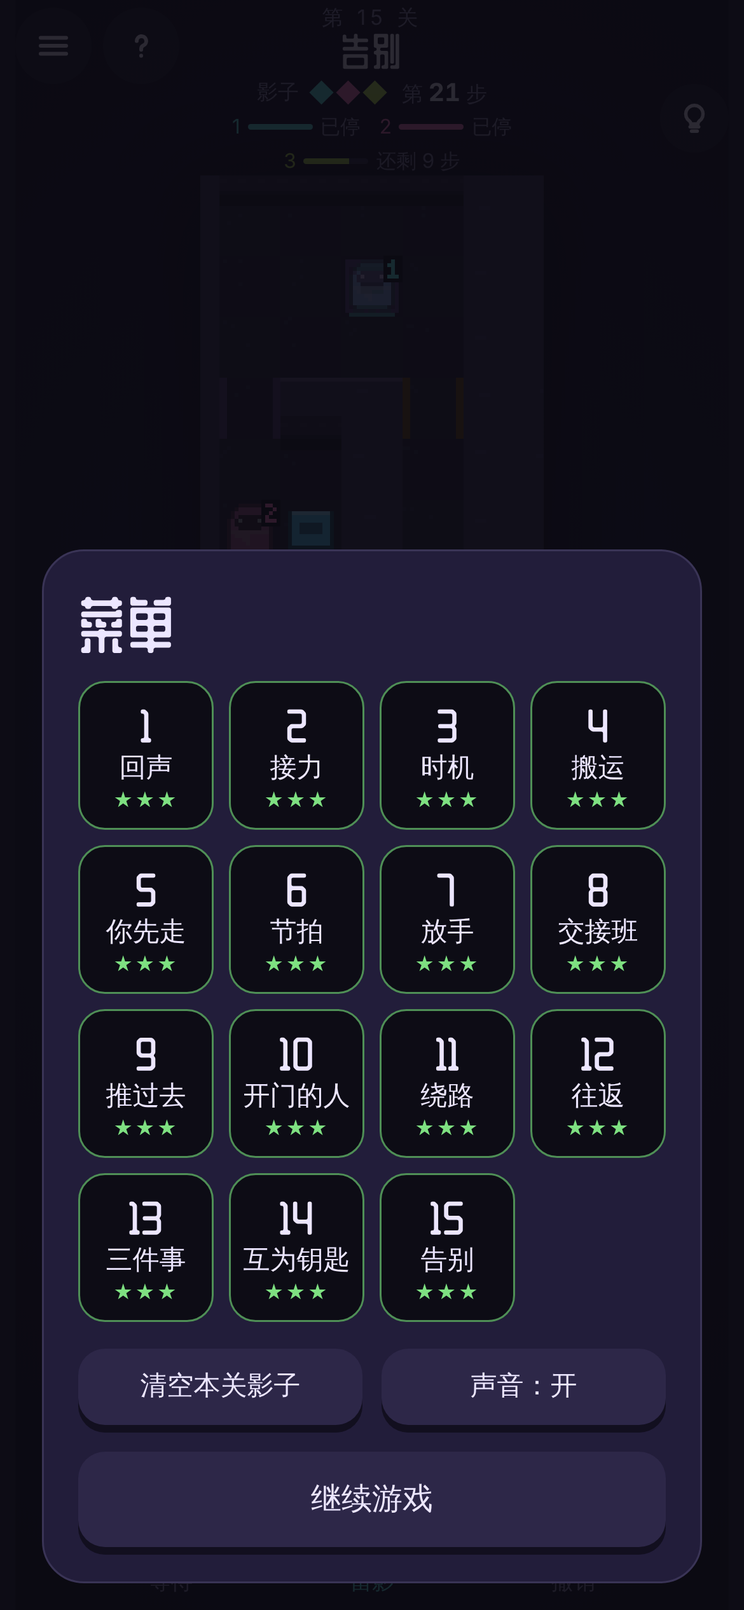
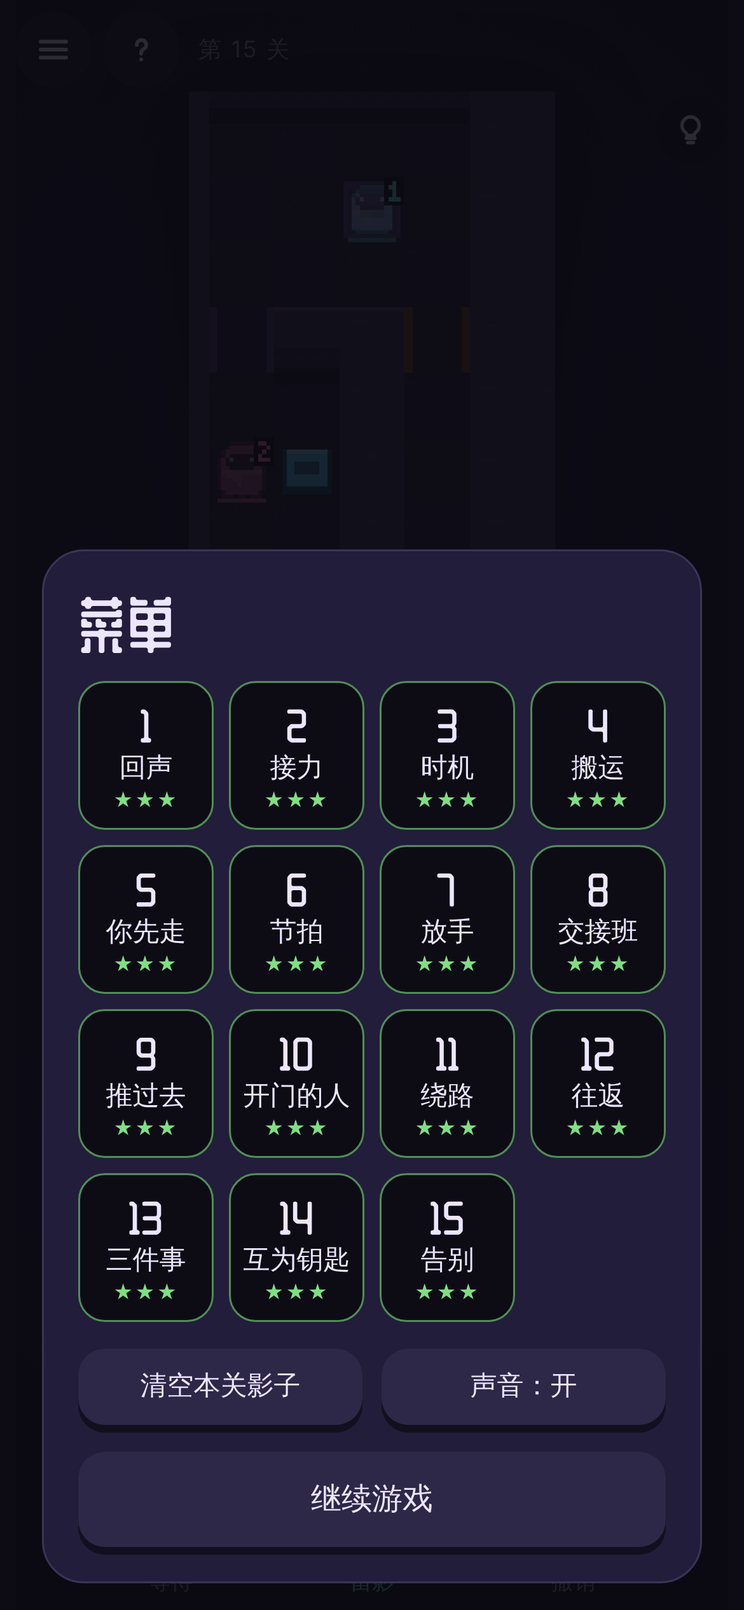
去掉顶部信息栏：关卡名进关淡入淡出，影子名额改为留影按钮角标，提示灯泡浮在棋盘右上角
Claude-Session: https://claude.ai/code/session_016AuyL4w4c3u8YAF1PVzn5C

diff --git a/index.html b/index.html
@@ -34,40 +34,37 @@ button{font:inherit;color:inherit;-webkit-tap-highlight-color:transparent;touch-
   body{background:var(--bg)}
   #app{height:min(100% - 32px,900px);border:1px solid var(--line);border-radius:28px;padding:12px 14px 14px;box-shadow:0 30px 80px rgba(0,0,0,.6)}
 }
-/* top strip: back on the left, level title centred, right side kept clear */
-#top{display:grid;grid-template-columns:88px 1fr 88px;align-items:start;min-height:44px}
-#topL{display:flex;gap:6px}
-/* right column: the first ~40px are left empty for the WeChat capsule; the hint button sits just under it */
-#topR{display:flex;justify-content:flex-end;padding-top:40px}
+/* top strip: round buttons plus a tiny level chip on the left; the right side stays empty for the WeChat capsule */
+#top{display:flex;align-items:center;height:44px;flex:none}
+#topL{display:flex;gap:6px;align-items:center}
 .ico.sm{width:36px;height:36px}
 .ico.sm svg{width:18px;height:18px}
 .ico{width:40px;height:40px;border-radius:50%;background:rgba(255,255,255,.06);border:none;cursor:pointer;display:grid;place-items:center}
 .ico svg{width:20px;height:20px}
-#lvbox{text-align:center;min-width:0}
-#lvname{font-family:var(--display);font-size:20px;line-height:1.05;letter-spacing:.05em;white-space:nowrap;overflow:hidden;text-overflow:ellipsis}
-#lvname small{display:block;font-family:var(--body);font-size:11px;letter-spacing:.2em;color:var(--dim)}
-#status{display:flex;justify-content:center;align-items:center;gap:10px;margin-top:3px;min-height:18px;flex-wrap:wrap}
-#pips{display:flex;gap:5px;align-items:center}
-.pip{width:9px;height:9px;border:2px solid #5a5380;transform:rotate(45deg);box-sizing:border-box}
-.pip.on{border-color:transparent}
-#pipLabel{font-size:11px;color:var(--dim);margin-right:2px}
-#steps{font-size:11px;color:var(--dim);font-variant-numeric:tabular-nums}
-#steps b{color:var(--ink);font-size:13px}
-#timeline{display:flex;gap:4px 10px;flex-wrap:wrap;justify-content:center;min-height:12px;margin-top:2px}
-.tl{display:flex;align-items:center;gap:4px;font-size:10.5px;color:var(--dim)}
-.tl i{display:block;width:34px;height:3px;background:var(--line);border-radius:2px;position:relative;overflow:hidden}
-.tl i em{position:absolute;inset:0 auto 0 0;background:currentColor}
+#lvchip{font-size:12px;color:var(--dim);letter-spacing:.08em;padding-left:4px;white-space:nowrap}
+/* hint bulb floats on the board's top-right corner, just under the capsule */
+#hintBtn{position:absolute;top:2px;right:2px;z-index:2;background:rgba(20,17,34,.6)}
+/* level name: fades in over the board when a level starts, then goes away */
+#intro{position:absolute;left:50%;top:42%;transform:translate(-50%,-50%);text-align:center;pointer-events:none;opacity:0;z-index:3;
+  font-family:var(--display);font-size:34px;letter-spacing:.08em;color:var(--ink);text-shadow:0 2px 0 #0c0a16,0 0 24px rgba(0,0,0,.8);white-space:nowrap}
+#intro small{display:block;font-family:var(--body);font-size:13px;letter-spacing:.3em;color:var(--dim);margin-bottom:4px}
+#intro.show{animation:intro 1.8s ease both}
+@keyframes intro{0%{opacity:0;transform:translate(-50%,-40%)}18%{opacity:1;transform:translate(-50%,-50%)}75%{opacity:1;transform:translate(-50%,-50%)}100%{opacity:0;transform:translate(-50%,-56%)}}
+/* shadows left: a badge on the 留影 button */
+.ab .badge{position:absolute;top:-4px;right:-4px;min-width:22px;height:22px;border-radius:11px;background:var(--ink);color:#13111d;font:700 13px/22px var(--body);text-align:center;box-shadow:0 2px 0 #0c0a16}
+.ab.rw.empty .o{filter:saturate(.25) brightness(.7)}
+.ab.rw.empty .badge{background:#5a5380;color:var(--ink)}
 /* board */
 #stage{flex:1;min-height:0;position:relative;display:flex;align-items:center;justify-content:center;touch-action:none;cursor:pointer}
 canvas{display:block;image-rendering:pixelated;image-rendering:crisp-edges;filter:drop-shadow(0 10px 24px rgba(0,0,0,.45))}
-#toast{position:absolute;left:50%;top:6px;transform:translateX(-50%);background:rgba(20,17,34,.92);border:1px solid var(--line);border-radius:999px;padding:6px 14px;
+#toast{position:absolute;left:50%;top:48px;transform:translateX(-50%);background:rgba(20,17,34,.92);border:1px solid var(--line);border-radius:999px;padding:6px 14px;
   font-size:12.5px;max-width:90%;text-align:center;opacity:0;transition:opacity .25s;pointer-events:none;white-space:nowrap;overflow:hidden;text-overflow:ellipsis}
 #toast.show{opacity:1}
 #coach{position:absolute;left:50%;bottom:8px;transform:translateX(-50%);display:flex;align-items:center;gap:8px;background:rgba(20,17,34,.88);border-radius:999px;
   padding:7px 14px;font-size:12.5px;color:var(--ink);pointer-events:none;white-space:nowrap}
 #coach i{display:block;width:22px;height:22px;border-radius:50%;background:var(--ink);opacity:.9;animation:swipe 1.4s ease-in-out infinite}
 @keyframes swipe{0%{transform:translateX(-10px);opacity:0}20%{opacity:.9}80%{opacity:.9}100%{transform:translateX(14px);opacity:0}}
-#tip{position:absolute;left:8px;right:8px;top:6px;display:flex;align-items:center;gap:10px;justify-content:center;flex-wrap:wrap;
+#tip{position:absolute;left:8px;right:8px;top:48px;display:flex;align-items:center;gap:10px;justify-content:center;flex-wrap:wrap;
   background:rgba(20,17,34,.72);border-radius:14px;padding:8px 12px;font-size:12.5px;line-height:1.5;color:rgba(236,230,255,.72);text-align:center;
   animation:tipIn .5s ease-out both;z-index:2}
 #tip button{all:unset;cursor:pointer;font-size:11.5px;color:var(--cyan);opacity:.8;border-bottom:1px dashed currentColor}
@@ -84,7 +81,7 @@ canvas{display:block;image-rendering:pixelated;image-rendering:crisp-edges;filte
 .ab.rw svg{width:30px;height:30px}
 .ab.rw{color:var(--cyan)}
 .ab.rw:active .o{box-shadow:0 1px 0 #0d4448}
-@media (max-height:620px){#timeline{display:none} .ab .o{width:42px;height:42px} .ab.rw .o{width:56px;height:56px}}
+@media (max-height:620px){.ab .o{width:42px;height:42px} .ab.rw .o{width:56px;height:56px}}
 :focus-visible{outline:2px solid var(--cyan);outline-offset:2px}
 /* overlays */
 .ov{position:absolute;inset:0;background:rgba(10,9,16,.86);display:flex;align-items:flex-end;justify-content:center;z-index:5;padding:14px;box-sizing:border-box}
@@ -152,18 +149,12 @@ canvas{display:block;image-rendering:pixelated;image-rendering:crisp-edges;filte
 <div id="app">
   <div id="top">
     <div id="topL"><button class="ico" id="menuBtn" type="button" aria-label="菜单"><svg viewBox="0 0 24 24" fill="none" stroke="currentColor" stroke-width="2.4" stroke-linecap="round"><path d="M4 7h16M4 12h16M4 17h16"/></svg></button>
-    <button class="ico" id="helpBtn" type="button" aria-label="帮助"><svg viewBox="0 0 24 24" fill="none" stroke="currentColor" stroke-width="2.4" stroke-linecap="round" stroke-linejoin="round"><path d="M9.2 9a3 3 0 1 1 4.3 2.7c-.9.4-1.5 1.2-1.5 2.2v.6"/><path d="M12 18.2v.1"/></svg></button></div>
-    <div id="lvbox">
-      <div id="lvname"><small>第 1 关</small>回声</div>
-      <div id="status"><div id="pips" aria-label="影子名额"></div><div id="steps">第 <b id="stepN">0</b> 步</div></div>
-      <div id="timeline"></div>
-    </div>
-    <div id="topR"><button class="ico sm" data-c="solve" type="button" aria-label="提示"><svg viewBox="0 0 24 24" fill="none" stroke="currentColor" stroke-width="2.4" stroke-linecap="round" stroke-linejoin="round"><path d="M9 18h6M10 21h4M12 3a6 6 0 0 0-3.5 10.9c.6.5 1 1.2 1 2.1h5c0-.9.4-1.6 1-2.1A6 6 0 0 0 12 3z"/></svg></button></div>
+    <button class="ico" id="helpBtn" type="button" aria-label="帮助"><svg viewBox="0 0 24 24" fill="none" stroke="currentColor" stroke-width="2.4" stroke-linecap="round" stroke-linejoin="round"><path d="M9.2 9a3 3 0 1 1 4.3 2.7c-.9.4-1.5 1.2-1.5 2.2v.6"/><path d="M12 18.2v.1"/></svg></button><span id="lvchip">第 1 关</span></div>
   </div>
-  <div id="stage"><canvas id="cv"></canvas><div id="toast"></div><div id="tip" hidden><span id="tipText"></span><button id="tipSolve" type="button">演示解法</button></div><div id="coach" hidden><i></i>在棋盘上滑动来移动，点自己原地等一步</div></div>
+  <div id="stage"><canvas id="cv"></canvas><button class="ico sm" id="hintBtn" data-c="solve" type="button" aria-label="提示"><svg viewBox="0 0 24 24" fill="none" stroke="currentColor" stroke-width="2.4" stroke-linecap="round" stroke-linejoin="round"><path d="M9 18h6M10 21h4M12 3a6 6 0 0 0-3.5 10.9c.6.5 1 1.2 1 2.1h5c0-.9.4-1.6 1-2.1A6 6 0 0 0 12 3z"/></svg></button><div id="intro"></div><div id="toast"></div><div id="tip" hidden><span id="tipText"></span><button id="tipSolve" type="button">演示解法</button></div><div id="coach" hidden><i></i>在棋盘上滑动来移动，点自己原地等一步</div></div>
   <div id="bar">
     <button class="ab" data-c="wait" type="button"><span class="o"><svg viewBox="0 0 24 24" fill="none" stroke="currentColor" stroke-width="2.4" stroke-linecap="round" stroke-linejoin="round"><path d="M6 3h12M6 21h12M7 3c0 5 10 5 10 9s-10 4-10 9M17 3c0 5-10 5-10 9"/></svg></span>等待</button>
-    <button class="ab rw" data-c="rewind" type="button"><span class="o"><svg viewBox="0 0 24 24" fill="currentColor"><path d="M11 6v12L2.5 12zM21.5 6v12L13 12z"/></svg></span>留影</button>
+    <button class="ab rw" id="rwBtn" data-c="rewind" type="button"><span class="o"><b class="badge" id="rwLeft">0</b><svg viewBox="0 0 24 24" fill="currentColor"><path d="M11 6v12L2.5 12zM21.5 6v12L13 12z"/></svg></span>留影</button>
     <button class="ab" id="undoBtn" data-c="undo" type="button" aria-label="撤销一步"><span class="o"><svg viewBox="0 0 24 24" fill="none" stroke="currentColor" stroke-width="2.4" stroke-linecap="round" stroke-linejoin="round"><path d="M9 14 4 9l5-5"/><path d="M4 9h10a6 6 0 0 1 0 12h-3"/></svg></span>撤销</button>
   </div>
 
@@ -201,7 +192,7 @@ canvas{display:block;image-rendering:pixelated;image-rendering:crisp-edges;filte
         <div class="hl"><canvas data-icon="box"></canvas><p><b>箱子</b>：走过去就能推。推到压力板上，可以代替人踩住。</p></div>
         <div class="hl"><canvas data-icon="exit"></canvas><p><b>终点</b>：你自己走到这里就过关，影子到了不算。</p></div>
       </div>
-      <p class="hnote">顶部的菱形是这一关能用的影子数量。底部按钮：等待一步 · 留影 · 撤销一步。卡住了就点右上角的灯泡看提示。</p>
+      <p class="hnote">「留影」按钮上的数字是这一关还能留几个影子。底部按钮：等待一步 · 留影 · 撤销一步。卡住了就点棋盘右上角的灯泡看提示。</p>
       <div class="row"><button class="btn" id="helpClose" type="button">知道了</button></div>
     </div>
   </div>
@@ -417,9 +408,9 @@ function applyRot(r){if(r===rot)return;rot=r;ghosts=ghosts.map(swapArr);cur=swap
 function loadLevel(i,keep){li=i;L=LEVELS[i];rot=wantRot();g=parseLevel(levelView());ghosts=[];cur=[];won=false;winShown=false;queue=[];rewinding=null;autoplay=null;particles=[];
     recompute(true);doorOpen=frames[0].doors.slice().map(v=>v?1:0);
   buf.width=g.W*TS;buf.height=g.H*TS;calcView();resize();
-  $('lvname').innerHTML='<small>第 '+(i+1)+' 关</small>'+L.name;
+  $('lvchip').textContent='第 '+(i+1)+' 关';
   $('tip').hidden=true;$('coach').hidden=!!store.get('zuori-coached',false);
-  hideOv();toast('第 '+(i+1)+' 关 · '+L.name,1400);
+  hideOv();{const it=$('intro');it.innerHTML='<small>第 '+(i+1)+' 关</small>'+L.name;it.classList.remove('show');void it.offsetWidth;it.classList.add('show');}
   store.set('zuori-last',i);
 }
 function recompute(snap){frames=simulate(g,ghosts,cur);const last=frames[frames.length-1];
@@ -429,13 +420,7 @@ function actsAt(t){const a=ghosts.map(r=>r[t]||'W');a.push(cur[t]||'W');return a
 function curFrame(){return frames[frames.length-1];}
 
 function updateHud(){
-  const p=$('pips');p.innerHTML='<span id="pipLabel">影子</span>';
-  for(let i=0;i<L.cap;i++){const d=document.createElement('span');d.className='pip'+(i<ghosts.length?' on':'');if(i<ghosts.length)d.style.background=GHOST_COL[i];p.appendChild(d);}
-  $('stepN').textContent=cur.length;
-  const tl=$('timeline');tl.innerHTML='';const t=cur.length;
-  ghosts.forEach((r,i)=>{const d=document.createElement('div');d.className='tl';d.style.color=GHOST_COL[i];
-    const pct=Math.min(100,r.length?t/r.length*100:100);
-    d.innerHTML='<span>'+(i+1)+'</span><i><em style="width:'+pct+'%"></em></i><span style="color:var(--dim)">'+(t>=r.length?'已停':'还剩 '+(r.length-t)+' 步')+'</span>';tl.appendChild(d);});
+  const left=L.cap-ghosts.length;$('rwLeft').textContent=left;$('rwBtn').classList.toggle('empty',left<=0);
 }
 
 // ---------- input ----------

diff --git a/src/game.src.html b/src/game.src.html
@@ -26,40 +26,37 @@ button{font:inherit;color:inherit;-webkit-tap-highlight-color:transparent;touch-
   body{background:var(--bg)}
   #app{height:min(100% - 32px,900px);border:1px solid var(--line);border-radius:28px;padding:12px 14px 14px;box-shadow:0 30px 80px rgba(0,0,0,.6)}
 }
-/* top strip: back on the left, level title centred, right side kept clear */
-#top{display:grid;grid-template-columns:88px 1fr 88px;align-items:start;min-height:44px}
-#topL{display:flex;gap:6px}
-/* right column: the first ~40px are left empty for the WeChat capsule; the hint button sits just under it */
-#topR{display:flex;justify-content:flex-end;padding-top:40px}
+/* top strip: round buttons plus a tiny level chip on the left; the right side stays empty for the WeChat capsule */
+#top{display:flex;align-items:center;height:44px;flex:none}
+#topL{display:flex;gap:6px;align-items:center}
 .ico.sm{width:36px;height:36px}
 .ico.sm svg{width:18px;height:18px}
 .ico{width:40px;height:40px;border-radius:50%;background:rgba(255,255,255,.06);border:none;cursor:pointer;display:grid;place-items:center}
 .ico svg{width:20px;height:20px}
-#lvbox{text-align:center;min-width:0}
-#lvname{font-family:var(--display);font-size:20px;line-height:1.05;letter-spacing:.05em;white-space:nowrap;overflow:hidden;text-overflow:ellipsis}
-#lvname small{display:block;font-family:var(--body);font-size:11px;letter-spacing:.2em;color:var(--dim)}
-#status{display:flex;justify-content:center;align-items:center;gap:10px;margin-top:3px;min-height:18px;flex-wrap:wrap}
-#pips{display:flex;gap:5px;align-items:center}
-.pip{width:9px;height:9px;border:2px solid #5a5380;transform:rotate(45deg);box-sizing:border-box}
-.pip.on{border-color:transparent}
-#pipLabel{font-size:11px;color:var(--dim);margin-right:2px}
-#steps{font-size:11px;color:var(--dim);font-variant-numeric:tabular-nums}
-#steps b{color:var(--ink);font-size:13px}
-#timeline{display:flex;gap:4px 10px;flex-wrap:wrap;justify-content:center;min-height:12px;margin-top:2px}
-.tl{display:flex;align-items:center;gap:4px;font-size:10.5px;color:var(--dim)}
-.tl i{display:block;width:34px;height:3px;background:var(--line);border-radius:2px;position:relative;overflow:hidden}
-.tl i em{position:absolute;inset:0 auto 0 0;background:currentColor}
+#lvchip{font-size:12px;color:var(--dim);letter-spacing:.08em;padding-left:4px;white-space:nowrap}
+/* hint bulb floats on the board's top-right corner, just under the capsule */
+#hintBtn{position:absolute;top:2px;right:2px;z-index:2;background:rgba(20,17,34,.6)}
+/* level name: fades in over the board when a level starts, then goes away */
+#intro{position:absolute;left:50%;top:42%;transform:translate(-50%,-50%);text-align:center;pointer-events:none;opacity:0;z-index:3;
+  font-family:var(--display);font-size:34px;letter-spacing:.08em;color:var(--ink);text-shadow:0 2px 0 #0c0a16,0 0 24px rgba(0,0,0,.8);white-space:nowrap}
+#intro small{display:block;font-family:var(--body);font-size:13px;letter-spacing:.3em;color:var(--dim);margin-bottom:4px}
+#intro.show{animation:intro 1.8s ease both}
+@keyframes intro{0%{opacity:0;transform:translate(-50%,-40%)}18%{opacity:1;transform:translate(-50%,-50%)}75%{opacity:1;transform:translate(-50%,-50%)}100%{opacity:0;transform:translate(-50%,-56%)}}
+/* shadows left: a badge on the 留影 button */
+.ab .badge{position:absolute;top:-4px;right:-4px;min-width:22px;height:22px;border-radius:11px;background:var(--ink);color:#13111d;font:700 13px/22px var(--body);text-align:center;box-shadow:0 2px 0 #0c0a16}
+.ab.rw.empty .o{filter:saturate(.25) brightness(.7)}
+.ab.rw.empty .badge{background:#5a5380;color:var(--ink)}
 /* board */
 #stage{flex:1;min-height:0;position:relative;display:flex;align-items:center;justify-content:center;touch-action:none;cursor:pointer}
 canvas{display:block;image-rendering:pixelated;image-rendering:crisp-edges;filter:drop-shadow(0 10px 24px rgba(0,0,0,.45))}
-#toast{position:absolute;left:50%;top:6px;transform:translateX(-50%);background:rgba(20,17,34,.92);border:1px solid var(--line);border-radius:999px;padding:6px 14px;
+#toast{position:absolute;left:50%;top:48px;transform:translateX(-50%);background:rgba(20,17,34,.92);border:1px solid var(--line);border-radius:999px;padding:6px 14px;
   font-size:12.5px;max-width:90%;text-align:center;opacity:0;transition:opacity .25s;pointer-events:none;white-space:nowrap;overflow:hidden;text-overflow:ellipsis}
 #toast.show{opacity:1}
 #coach{position:absolute;left:50%;bottom:8px;transform:translateX(-50%);display:flex;align-items:center;gap:8px;background:rgba(20,17,34,.88);border-radius:999px;
   padding:7px 14px;font-size:12.5px;color:var(--ink);pointer-events:none;white-space:nowrap}
 #coach i{display:block;width:22px;height:22px;border-radius:50%;background:var(--ink);opacity:.9;animation:swipe 1.4s ease-in-out infinite}
 @keyframes swipe{0%{transform:translateX(-10px);opacity:0}20%{opacity:.9}80%{opacity:.9}100%{transform:translateX(14px);opacity:0}}
-#tip{position:absolute;left:8px;right:8px;top:6px;display:flex;align-items:center;gap:10px;justify-content:center;flex-wrap:wrap;
+#tip{position:absolute;left:8px;right:8px;top:48px;display:flex;align-items:center;gap:10px;justify-content:center;flex-wrap:wrap;
   background:rgba(20,17,34,.72);border-radius:14px;padding:8px 12px;font-size:12.5px;line-height:1.5;color:rgba(236,230,255,.72);text-align:center;
   animation:tipIn .5s ease-out both;z-index:2}
 #tip button{all:unset;cursor:pointer;font-size:11.5px;color:var(--cyan);opacity:.8;border-bottom:1px dashed currentColor}
@@ -76,7 +73,7 @@ canvas{display:block;image-rendering:pixelated;image-rendering:crisp-edges;filte
 .ab.rw svg{width:30px;height:30px}
 .ab.rw{color:var(--cyan)}
 .ab.rw:active .o{box-shadow:0 1px 0 #0d4448}
-@media (max-height:620px){#timeline{display:none} .ab .o{width:42px;height:42px} .ab.rw .o{width:56px;height:56px}}
+@media (max-height:620px){.ab .o{width:42px;height:42px} .ab.rw .o{width:56px;height:56px}}
 :focus-visible{outline:2px solid var(--cyan);outline-offset:2px}
 /* overlays */
 .ov{position:absolute;inset:0;background:rgba(10,9,16,.86);display:flex;align-items:flex-end;justify-content:center;z-index:5;padding:14px;box-sizing:border-box}
@@ -141,18 +138,12 @@ canvas{display:block;image-rendering:pixelated;image-rendering:crisp-edges;filte
 <div id="app">
   <div id="top">
     <div id="topL"><button class="ico" id="menuBtn" type="button" aria-label="菜单"><svg viewBox="0 0 24 24" fill="none" stroke="currentColor" stroke-width="2.4" stroke-linecap="round"><path d="M4 7h16M4 12h16M4 17h16"/></svg></button>
-    <button class="ico" id="helpBtn" type="button" aria-label="帮助"><svg viewBox="0 0 24 24" fill="none" stroke="currentColor" stroke-width="2.4" stroke-linecap="round" stroke-linejoin="round"><path d="M9.2 9a3 3 0 1 1 4.3 2.7c-.9.4-1.5 1.2-1.5 2.2v.6"/><path d="M12 18.2v.1"/></svg></button></div>
-    <div id="lvbox">
-      <div id="lvname"><small>第 1 关</small>回声</div>
-      <div id="status"><div id="pips" aria-label="影子名额"></div><div id="steps">第 <b id="stepN">0</b> 步</div></div>
-      <div id="timeline"></div>
-    </div>
-    <div id="topR"><button class="ico sm" data-c="solve" type="button" aria-label="提示"><svg viewBox="0 0 24 24" fill="none" stroke="currentColor" stroke-width="2.4" stroke-linecap="round" stroke-linejoin="round"><path d="M9 18h6M10 21h4M12 3a6 6 0 0 0-3.5 10.9c.6.5 1 1.2 1 2.1h5c0-.9.4-1.6 1-2.1A6 6 0 0 0 12 3z"/></svg></button></div>
+    <button class="ico" id="helpBtn" type="button" aria-label="帮助"><svg viewBox="0 0 24 24" fill="none" stroke="currentColor" stroke-width="2.4" stroke-linecap="round" stroke-linejoin="round"><path d="M9.2 9a3 3 0 1 1 4.3 2.7c-.9.4-1.5 1.2-1.5 2.2v.6"/><path d="M12 18.2v.1"/></svg></button><span id="lvchip">第 1 关</span></div>
   </div>
-  <div id="stage"><canvas id="cv"></canvas><div id="toast"></div><div id="tip" hidden><span id="tipText"></span><button id="tipSolve" type="button">演示解法</button></div><div id="coach" hidden><i></i>在棋盘上滑动来移动，点自己原地等一步</div></div>
+  <div id="stage"><canvas id="cv"></canvas><button class="ico sm" id="hintBtn" data-c="solve" type="button" aria-label="提示"><svg viewBox="0 0 24 24" fill="none" stroke="currentColor" stroke-width="2.4" stroke-linecap="round" stroke-linejoin="round"><path d="M9 18h6M10 21h4M12 3a6 6 0 0 0-3.5 10.9c.6.5 1 1.2 1 2.1h5c0-.9.4-1.6 1-2.1A6 6 0 0 0 12 3z"/></svg></button><div id="intro"></div><div id="toast"></div><div id="tip" hidden><span id="tipText"></span><button id="tipSolve" type="button">演示解法</button></div><div id="coach" hidden><i></i>在棋盘上滑动来移动，点自己原地等一步</div></div>
   <div id="bar">
     <button class="ab" data-c="wait" type="button"><span class="o"><svg viewBox="0 0 24 24" fill="none" stroke="currentColor" stroke-width="2.4" stroke-linecap="round" stroke-linejoin="round"><path d="M6 3h12M6 21h12M7 3c0 5 10 5 10 9s-10 4-10 9M17 3c0 5-10 5-10 9"/></svg></span>等待</button>
-    <button class="ab rw" data-c="rewind" type="button"><span class="o"><svg viewBox="0 0 24 24" fill="currentColor"><path d="M11 6v12L2.5 12zM21.5 6v12L13 12z"/></svg></span>留影</button>
+    <button class="ab rw" id="rwBtn" data-c="rewind" type="button"><span class="o"><b class="badge" id="rwLeft">0</b><svg viewBox="0 0 24 24" fill="currentColor"><path d="M11 6v12L2.5 12zM21.5 6v12L13 12z"/></svg></span>留影</button>
     <button class="ab" id="undoBtn" data-c="undo" type="button" aria-label="撤销一步"><span class="o"><svg viewBox="0 0 24 24" fill="none" stroke="currentColor" stroke-width="2.4" stroke-linecap="round" stroke-linejoin="round"><path d="M9 14 4 9l5-5"/><path d="M4 9h10a6 6 0 0 1 0 12h-3"/></svg></span>撤销</button>
   </div>
 
@@ -190,7 +181,7 @@ canvas{display:block;image-rendering:pixelated;image-rendering:crisp-edges;filte
         <div class="hl"><canvas data-icon="box"></canvas><p><b>箱子</b>：走过去就能推。推到压力板上，可以代替人踩住。</p></div>
         <div class="hl"><canvas data-icon="exit"></canvas><p><b>终点</b>：你自己走到这里就过关，影子到了不算。</p></div>
       </div>
-      <p class="hnote">顶部的菱形是这一关能用的影子数量。底部按钮：等待一步 · 留影 · 撤销一步。卡住了就点右上角的灯泡看提示。</p>
+      <p class="hnote">「留影」按钮上的数字是这一关还能留几个影子。底部按钮：等待一步 · 留影 · 撤销一步。卡住了就点棋盘右上角的灯泡看提示。</p>
       <div class="row"><button class="btn" id="helpClose" type="button">知道了</button></div>
     </div>
   </div>
@@ -312,9 +303,9 @@ function applyRot(r){if(r===rot)return;rot=r;ghosts=ghosts.map(swapArr);cur=swap
 function loadLevel(i,keep){li=i;L=LEVELS[i];rot=wantRot();g=parseLevel(levelView());ghosts=[];cur=[];won=false;winShown=false;queue=[];rewinding=null;autoplay=null;particles=[];
     recompute(true);doorOpen=frames[0].doors.slice().map(v=>v?1:0);
   buf.width=g.W*TS;buf.height=g.H*TS;calcView();resize();
-  $('lvname').innerHTML='<small>第 '+(i+1)+' 关</small>'+L.name;
+  $('lvchip').textContent='第 '+(i+1)+' 关';
   $('tip').hidden=true;$('coach').hidden=!!store.get('zuori-coached',false);
-  hideOv();toast('第 '+(i+1)+' 关 · '+L.name,1400);
+  hideOv();{const it=$('intro');it.innerHTML='<small>第 '+(i+1)+' 关</small>'+L.name;it.classList.remove('show');void it.offsetWidth;it.classList.add('show');}
   store.set('zuori-last',i);
 }
 function recompute(snap){frames=simulate(g,ghosts,cur);const last=frames[frames.length-1];
@@ -324,13 +315,7 @@ function actsAt(t){const a=ghosts.map(r=>r[t]||'W');a.push(cur[t]||'W');return a
 function curFrame(){return frames[frames.length-1];}
 
 function updateHud(){
-  const p=$('pips');p.innerHTML='<span id="pipLabel">影子</span>';
-  for(let i=0;i<L.cap;i++){const d=document.createElement('span');d.className='pip'+(i<ghosts.length?' on':'');if(i<ghosts.length)d.style.background=GHOST_COL[i];p.appendChild(d);}
-  $('stepN').textContent=cur.length;
-  const tl=$('timeline');tl.innerHTML='';const t=cur.length;
-  ghosts.forEach((r,i)=>{const d=document.createElement('div');d.className='tl';d.style.color=GHOST_COL[i];
-    const pct=Math.min(100,r.length?t/r.length*100:100);
-    d.innerHTML='<span>'+(i+1)+'</span><i><em style="width:'+pct+'%"></em></i><span style="color:var(--dim)">'+(t>=r.length?'已停':'还剩 '+(r.length-t)+' 步')+'</span>';tl.appendChild(d);});
+  const left=L.cap-ghosts.length;$('rwLeft').textContent=left;$('rwBtn').classList.toggle('empty',left<=0);
 }
 
 // ---------- input ----------

diff --git a/README.md b/README.md
@@ -1,6 +1,6 @@
 # 分身大作战
 
-2D 像素风解谜（和过去的自己合作），单个 `index.html`，浏览器直接打开就能玩。按手机解谜小游戏的习惯排版：棋盘占满屏幕，在棋盘上滑动移动、点自己原地等一步，底部一排圆形按钮（等待 · 留影 · 撤销），右上角是帮助和提示，顶部只有菜单和关卡名，右上角留空给微信胶囊。横向很长的关卡在竖屏上会自动转成竖向。电脑上显示成手机大小，也能用键盘。
+2D 像素风解谜（和过去的自己合作），单个 `index.html`，浏览器直接打开就能玩。按手机解谜小游戏的习惯排版：棋盘占满屏幕，在棋盘上滑动移动、点自己原地等一步，底部一排圆形按钮（等待 · 留影 · 撤销），右上角是帮助和提示，顶部只有菜单、帮助和一个小小的关卡号，关卡名进关时在棋盘上淡入淡出，剩余影子数显示在「留影」按钮的角标上，右上角留空给微信胶囊。横向很长的关卡在竖屏上会自动转成竖向。电脑上显示成手机大小，也能用键盘。
 
 **玩法**：在棋盘上滑动移动，点自己原地等一步。点「留影」，这一轮的你留下来变成影子，你回到起点重新出发；影子会原样重复你的每一步操作（撞墙也照撞）。踩住压力板开同色门；斜纹的是反向门，同色板被踩住时反而关上。每关有影子名额上限。底部按钮有等待和撤销一步；右上角灯泡是提示（淡淡浮出一句提示，可演示解法），左上角「?」是规则说明；菜单里可以清空影子、开关声音。通关有星级结算（总步数不超过参考解即三星）。界面只面向手机；代码里保留了键盘操作，方便在电脑上调试。
 
